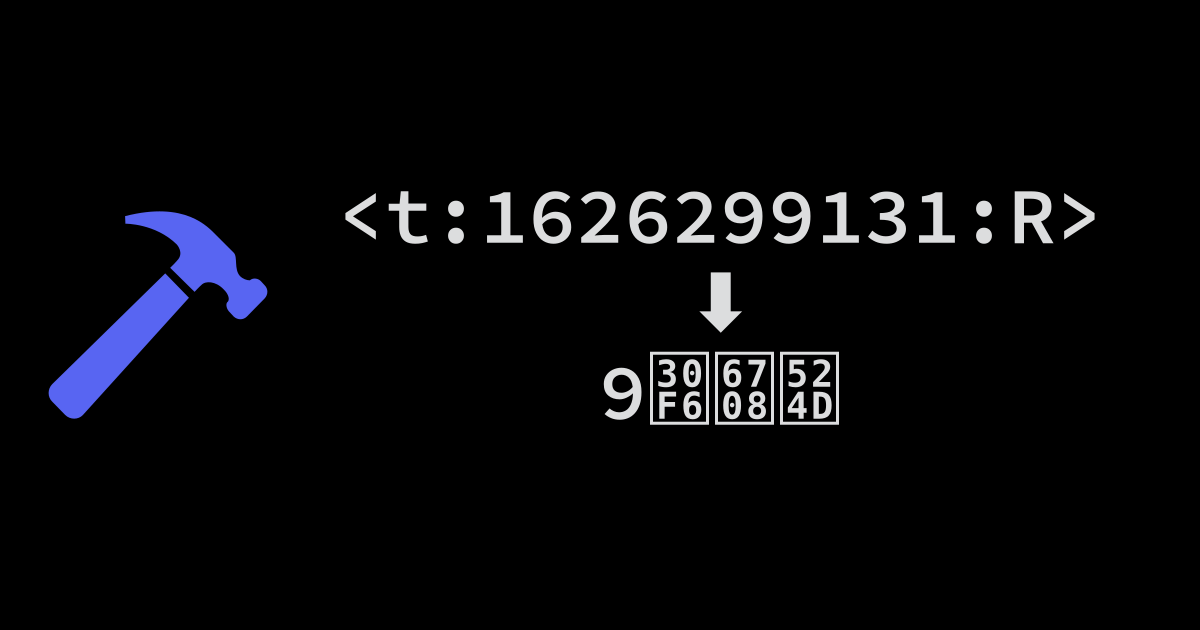
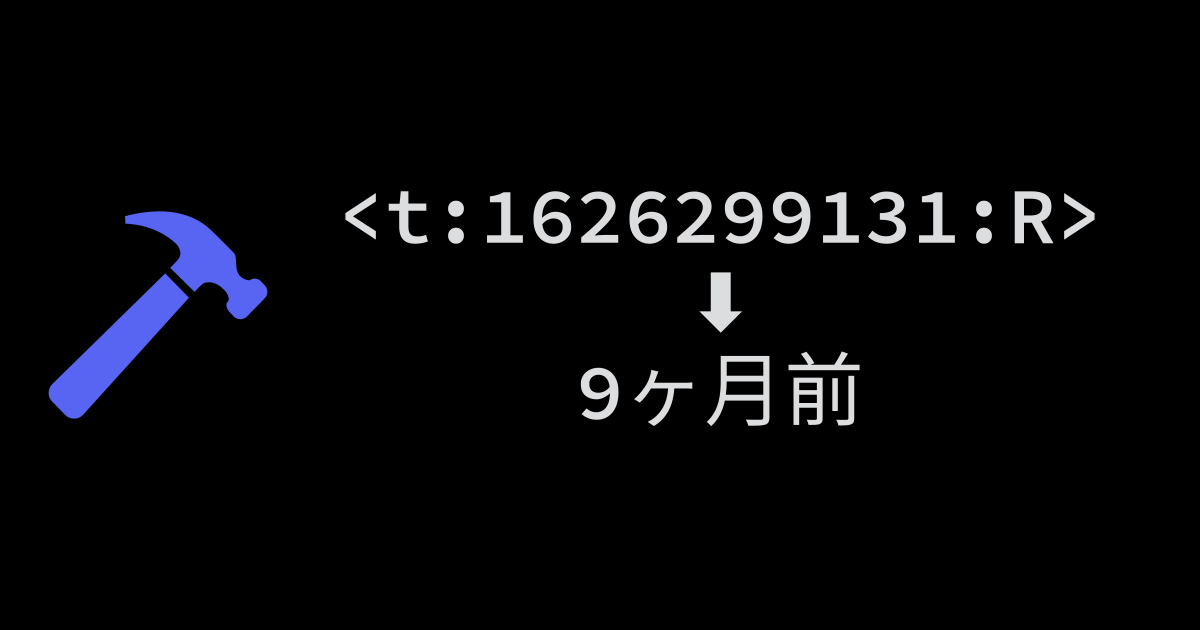
Fix Japanese social preview

Changed region(s): [[0.4625, 0.5429, 0.74, 0.6937]]

diff --git a/utils/previews.js b/utils/previews.js
@@ -19,11 +19,22 @@ console.info('Generating social previews…');
   const fontFamily = 'Source Code Pro';
   const fontStyle = 'normal';
   const fontWeight = '600';
-  const fontPath = await fs.realpath(path.join(fontPackagePath, 'TTF', `SourceCodePro-Semibold.ttf`));
+  const fontPath = await fs.realpath(path.join(fontPackagePath, 'TTF', 'SourceCodePro-Semibold.ttf'));
   registerFont(fontPath, {
     family: fontFamily,
     style: fontStyle,
     weight: fontWeight,
+  });
+
+  const jaFontPackagePath = path.join(nodeModulesPath, 'noto-sans-japanese');
+  const jaFontFamily = 'NotoSansJP';
+  const jaFontStyle = 'normal';
+  const jaFontWeight = '600';
+  const jaFontPath = await fs.realpath(path.join(jaFontPackagePath, 'fonts', 'NotoSansJP-Regular.otf'));
+  registerFont(jaFontPath, {
+    family: jaFontFamily,
+    style: jaFontStyle,
+    weight: jaFontWeight,
   });
 
   const latestTimezoneData = require('moment-timezone/data/packed/latest.json');
@@ -70,7 +81,7 @@ console.info('Generating social previews…');
       ];
       const lineHeight = 80;
       const offsetLineHeight = lineHeight * 1.1;
-      socialCanvasCtx.font = `${lineHeight}px ${fontFamily}`;
+      socialCanvasCtx.font = `${lineHeight}px ${fontFamily}, ${jaFontFamily}`;
       socialCanvasCtx.textAlign = 'center';
       socialCanvasCtx.fillStyle = '#dcddde';
       const textCenterX = Math.floor((socialCanvasWidth / 5) * (isRtl ? 2 : 3));
